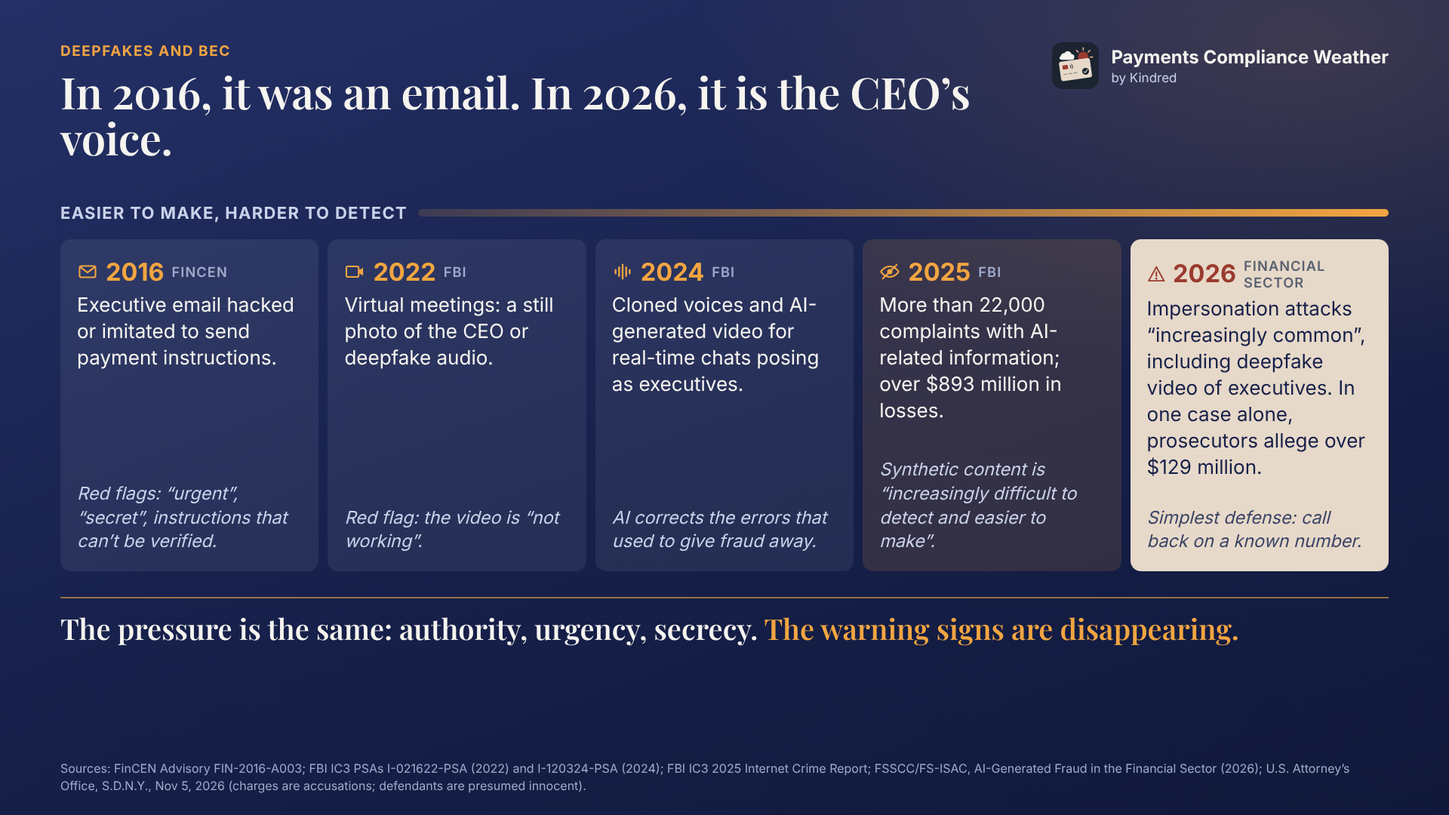
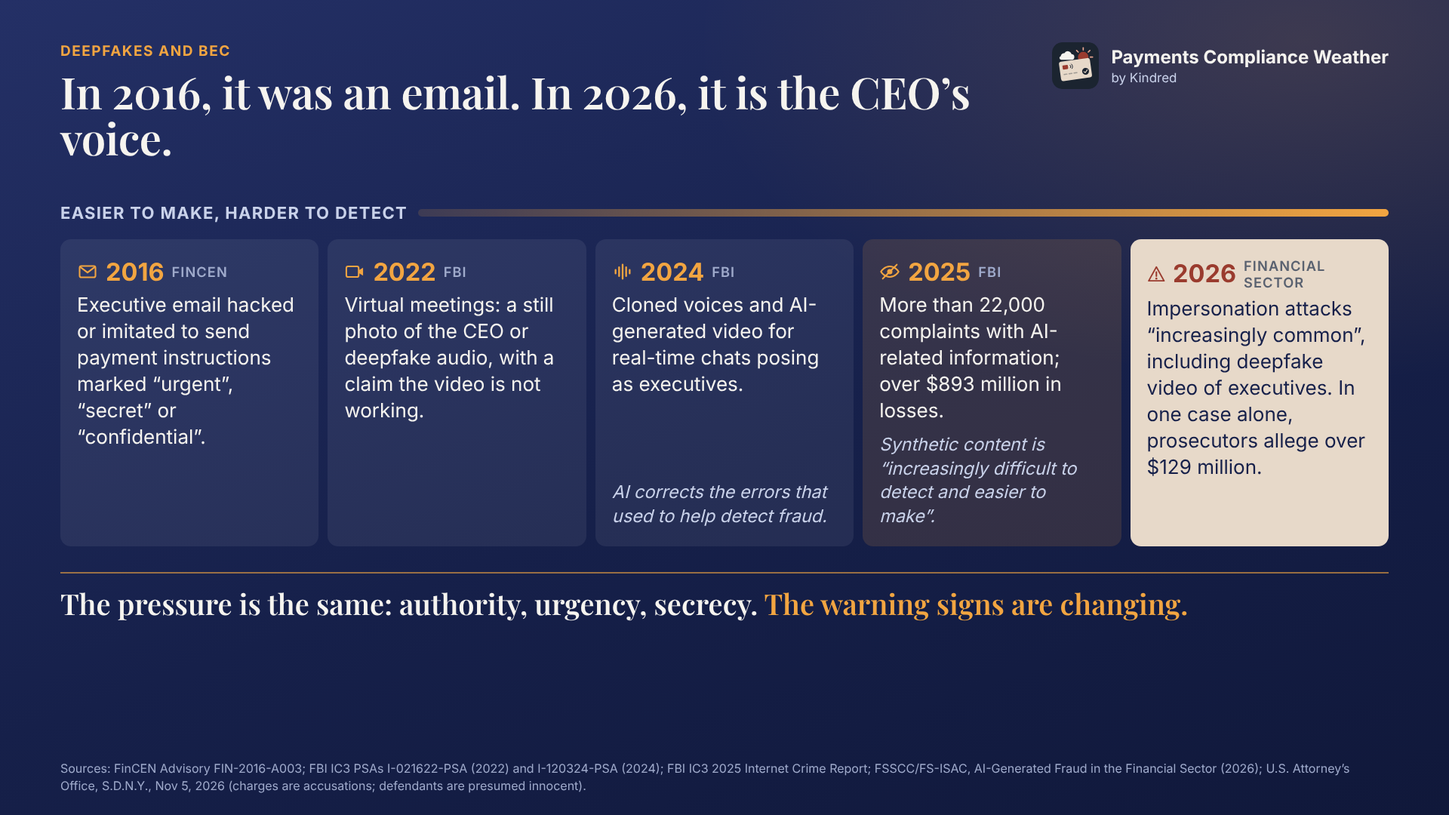
Article: poetic opening with 1738 impersonation history, 2015 FBI, fraud risk management analysis, updated timeline
Claude-Session: https://claude.ai/code/session_01Ku5heUpjigKdLqPfQp8BWG

diff --git a/article-ai-impersonation-wire-fraud.html b/article-ai-impersonation-wire-fraud.html
@@ -16,7 +16,7 @@
 <link rel="preconnect" href="https://fonts.googleapis.com">
 <link rel="preconnect" href="https://fonts.gstatic.com" crossorigin>
 <link rel="stylesheet" href="https://fonts.googleapis.com/css2?family=Playfair+Display:wght@500;600;700&family=Inter:ital,wght@0,400;0,500;0,600;0,700;1,400&display=swap">
-<link rel="stylesheet" href="css/site.css?v=20261107b">
+<link rel="stylesheet" href="css/site.css?v=20261109a">
 <link rel="canonical" href="https://kindredmission.github.io/article-ai-impersonation-wire-fraud.html">
 <meta property="og:type" content="article">
 <meta property="article:published_time" content="2026-10-24">
@@ -49,86 +49,140 @@
 <div class="container">
   <article class="post" itemscope itemtype="https://schema.org/BlogPosting">
     <header class="post-head"><p class="kicker">Payments Compliance Weather</p><h1 itemprop="headline">Deepfake CEO fraud: what the $129 million case means for payments controls</h1>
-      <p class="meta">By <span itemprop="author">the founder of Kindred</span>, <time datetime="2026-11-07" itemprop="datePublished">November 7, 2026</time>. 4 minute read</p></header>
+      <p class="meta">By <span itemprop="author">the founder of Kindred</span>, <time datetime="2026-11-07" itemprop="datePublished">November 7, 2026</time>. 6 minute read</p></header>
     <figure class="post-photo art-cover"><img src="articles/img/pcw-ai-impersonation-cover.jpg" alt="Payments Compliance Weather cover: Deepfake CEO fraud. A phone with a voice waveform, a storm cloud and a bank marked with a cross." width="1920" height="1080" fetchpriority="high" decoding="async"></figure>
     <div class="post-body" itemprop="articleBody">
-      <p class="post-lead">Executive impersonation is not new. What generative AI adds is a convincing voice and face. Federal prosecutors allege a group used that to divert more than $129 million in wires, including from two hospital systems.</p>
-      <h2>The case</h2>
-      <p>On November 5, 2026, the <a href="https://www.justice.gov/usao-sdny/pr/three-foreign-nationals-arrested-and-charged-scheme-use-super-intelligence-defraud" target="_blank" rel="noopener">U.S. Attorney&rsquo;s Office for the Southern District of New York</a> charged Jacob Soall, Sharon Hazan and Guy Sheetrit with wire fraud, aggravated identity theft and money laundering. The charges are accusations; the defendants are presumed innocent unless and until proven guilty. According to the release, from 2024 to 2026:</p>
-      <ul class="art-facts">
-        <li><strong>Executive impersonation:</strong> conspirators posed as CEOs and asked employees for help with a &ldquo;confidential financial transaction&rdquo;.</li>
-        <li><strong>Deepfake voice and video:</strong> they used what the release calls &ldquo;super intelligence&rdquo; (&ldquo;SI&rdquo;) to mimic the CEO&rsquo;s voice and/or image in calls.</li>
-        <li><strong>Fake third-party validation:</strong> they then impersonated lawyers at large international law firms, who directed the wire.</li>
-        <li><strong>Mule accounts:</strong> funds went to accounts controlled by the group in countries including the United States, Spain, Portugal, Greece, the UAE, Singapore, Austria, Slovakia and China.</li>
-        <li><strong>Crypto layering:</strong> proceeds were converted into cryptocurrency to conceal their source and distributed.</li>
-        <li><strong>Isolation tactic:</strong> a handwritten &ldquo;Lawyer Call&rdquo; script discouraged employees from discussing the calls with colleagues.</li>
-      </ul>
-      <h2>You were trained to spot the typo. Now there isn&rsquo;t one.</h2>
-      <p>Executive impersonation has been on regulators&rsquo; radar for a decade. What has changed is how convincing it is.</p>
-      <ul class="art-facts">
-        <li><strong>2016:</strong> FinCEN <a href="https://www.fincen.gov/sites/default/files/advisory/2016-09-09/FIN-2016-A003.pdf" target="_blank" rel="noopener">warned</a> that criminals hack or imitate executives&rsquo; email to send payment instructions, often marked &ldquo;urgent&rdquo;, &ldquo;secret&rdquo; or &ldquo;confidential&rdquo;, and sometimes based on emails from executives or attorneys that cannot be verified.</li>
-        <li><strong>2022:</strong> the FBI <a href="https://www.ic3.gov/PSA/2022/PSA220216" target="_blank" rel="noopener">reported</a> fraudsters moving to virtual meetings, showing a still picture of the CEO or using deepfake audio and claiming the video was not working.</li>
-        <li><strong>2024:</strong> the FBI <a href="https://www.ic3.gov/PSA/2024/PSA241203" target="_blank" rel="noopener">warned</a> that generative AI lets criminals commit fraud on a larger scale and correct the errors that used to serve as warning signs. It noted that &ldquo;criminals generate videos for real time video chats with alleged company executives&rdquo;, clone voices and create fake identity documents.</li>
-        <li><strong>2025:</strong> the FBI&rsquo;s <a href="https://www.ic3.gov/AnnualReport/Reports/2025_IC3Report.pdf" target="_blank" rel="noopener">2025 Internet Crime Report</a> counted more than 22,000 complaints with AI-related information and over $893 million in losses, including more than $30 million in business email compromise losses involving AI. It warned that AI-enabled synthetic content is &ldquo;becoming increasingly difficult to detect and easier to make.&rdquo;</li>
-        <li><strong>2026:</strong> a financial sector paper led by FS-ISAC, the American Bankers Association and the Bank Policy Institute, <a href="https://fsscc.org/wp-content/uploads/2026/03/FSSCC-AI-Generated-Fraud.pdf" target="_blank" rel="noopener">AI-Generated Fraud in the Financial Sector</a>, said impersonation attacks are &ldquo;increasingly common&rdquo;, including deepfakes of executives used to authorize payments. The case above is one example.</li>
-      </ul>
-      <p><strong>The pressure is the same: authority, urgency, secrecy. The warning signs are disappearing.</strong></p>
-      <figure class="post-photo art-cover"><img src="articles/img/pcw-impersonation-timeline-1920x1080.png" alt="Timeline: In 2016, it was an email. In 2026, it is the CEO&rsquo;s voice. 2016 FinCEN, 2022 FBI, 2024 FBI, 2025 FBI, 2026 financial sector. Easier to make, harder to detect." width="1920" height="1080" loading="lazy"></figure>
-      <h2>How it maps to known typologies</h2>
-      <div class="art-table"><table>
-        <thead><tr><th>Element</th><th>Industry term</th><th>Where it hits</th></tr></thead>
-        <tbody>
-          <tr><td>Fake CEO and lawyers</td><td>Executive impersonation, a form of business email compromise (BEC)</td><td>Corporate payment approvals</td></tr>
-          <tr><td>Cloned voice and image</td><td>Deepfake audio and video created with generative AI</td><td>Voice or video as a verification factor</td></tr>
-          <tr><td>Employee sends the wire</td><td>Authorized push payment (APP) fraud</td><td>Authentication passes; the instruction is false</td></tr>
-          <tr><td>Accounts across many countries</td><td>Money mule accounts</td><td>Receiving institutions&rsquo; KYC and monitoring</td></tr>
-          <tr><td>Conversion to crypto</td><td>Layering through virtual assets</td><td>Crypto platforms&rsquo; on-ramp monitoring</td></tr>
-        </tbody></table></div>
-      <p>The weak point is the same in each row: a control that relies on recognizing a person. GenAI makes that recognition unreliable.</p>
-      <h2>Controls by role</h2>
-      <div class="art-roles">
-        <section><h3>Corporate treasury and accounts payable</h3><ul>
-          <li>Out-of-band verification for every high-value or first-time payment, using contact details from your own records, never from the request.</li>
-          <li>Dual control: a second approver who was not on the call or thread.</li>
-          <li>A written rule that executives never request confidential payments by call or video alone.</li>
-          <li>Deepfake awareness training. Treat urgency and secrecy as red flags, not reasons to comply.</li></ul></section>
-        <section><h3>Originating banks and payment service providers</h3><ul>
-          <li>Risk-score wires by beneficiary age, amount and corridor: a first payment to a new beneficiary in a new country deserves friction.</li>
-          <li>Call the client back on file when a wire breaks pattern.</li>
-          <li>Send recall requests to the beneficiary bank immediately. Once funds are credited, recovery depends on the receiving bank.</li></ul></section>
-        <section><h3>Beneficiary banks, fintechs and other account providers</h3><ul>
-          <li>KYC and KYB that can withstand deepfakes: liveness detection and document authentication. FinCEN&rsquo;s <a href="https://fincen.gov/news/news-releases/fincen-issues-alert-fraud-schemes-involving-deepfake-media-targeting-financial" target="_blank" rel="noopener">2024 deepfake alert</a> reports more SARs describing fraudulent identity documents used to get past identity verification.</li>
-          <li>Mule monitoring: new or low-activity accounts receiving large wires from unrelated companies, followed by rapid outbound transfers, especially to crypto platforms.</li>
-          <li>File SARs where required.</li></ul></section>
-        <section><h3>Crypto platforms (VASPs)</h3><ul>
-          <li>Monitor on-ramp deposits from accounts that recently received large third-party wires.</li>
-          <li>Respond quickly to law enforcement and bank tracing requests.</li></ul></section>
-      </div>
-      <h2>Response: the 72-hour window</h2>
-      <div class="art-stat"><span class="art-num">72<small>hours</small></span><p>FinCEN&rsquo;s <a href="https://www.fincen.gov/system/files/2026-04/RRPFactSheet.pdf" target="_blank" rel="noopener">Rapid Response Program fact sheet</a> says it is most likely to interdict or recover funds when fraudulent wires are reported to law enforcement within 72 hours.</p></div>
-      <p>Victims should contact their bank immediately and file with the FBI&rsquo;s <a href="https://www.ic3.gov" target="_blank" rel="noopener">IC3</a> or the nearest U.S. Secret Service field office. Since 2015, the program has helped interdict $1.8 billion and recover over $1 billion.</p>
-      <p>Pre-assign who calls the bank and who files, and keep the data ready: beneficiary name, account and bank, receiving branch country, wire date, amount, currency and a short summary.</p>
-      <h2>Questions for your team</h2>
-      <ol class="art-q">
-        <li>Can one person release a high-value wire on the strength of a call or video?</li>
-        <li>Does your callback use contact details from your own records?</li>
-        <li>Would your KYC catch an AI-generated ID or a deepfake selfie?</li>
-        <li>Who makes the first call inside the 72-hour window?</li>
-      </ol>
-      <p>How is your organization adapting its controls to deepfakes? I&rsquo;d like to hear where you see the gaps. <a href="https://www.linkedin.com/build-relation/newsletter-follow?entityUrn=7524211241779630080" target="_blank" rel="noopener">Join the discussion on LinkedIn</a>.</p>
-      <h2>Sources</h2>
-      <ul class="art-src">
-        <li><a href="https://www.justice.gov/usao-sdny/pr/three-foreign-nationals-arrested-and-charged-scheme-use-super-intelligence-defraud" target="_blank" rel="noopener">U.S. Attorney&rsquo;s Office, Southern District of New York: Three Foreign Nationals Arrested And Charged With Scheme To Use Super Intelligence To Defraud Companies Of $129 Million</a>, November 5, 2026</li>
-        <li><a href="https://www.fincen.gov/sites/default/files/advisory/2016-09-09/FIN-2016-A003.pdf" target="_blank" rel="noopener">FinCEN Advisory FIN-2016-A003: Advisory to Financial Institutions on E-Mail Fraud Against Businesses</a>, September 6, 2016</li>
-        <li><a href="https://www.ic3.gov/PSA/2022/PSA220216" target="_blank" rel="noopener">FBI IC3 PSA I-021622-PSA: Business Email Compromise: Virtual Meeting Platforms</a>, February 16, 2022</li>
-        <li><a href="https://www.ic3.gov/PSA/2024/PSA241203" target="_blank" rel="noopener">FBI IC3 PSA I-120324-PSA: Criminals Use Generative Artificial Intelligence to Facilitate Financial Fraud</a>, December 3, 2024</li>
-        <li><a href="https://www.ic3.gov/AnnualReport/Reports/2025_IC3Report.pdf" target="_blank" rel="noopener">FBI IC3: 2025 Internet Crime Report</a></li>
-        <li><a href="https://fsscc.org/wp-content/uploads/2026/03/FSSCC-AI-Generated-Fraud.pdf" target="_blank" rel="noopener">FSSCC / FS-ISAC, ABA, BPI: AI-Generated Fraud in the Financial Sector: Threat Categories and Defense Strategies</a>, 2026</li>
-        <li><a href="https://fincen.gov/news/news-releases/fincen-issues-alert-fraud-schemes-involving-deepfake-media-targeting-financial" target="_blank" rel="noopener">FinCEN Issues Alert on Fraud Schemes Involving Deepfake Media Targeting Financial Institutions</a>, November 13, 2024</li>
-        <li><a href="https://www.fincen.gov/system/files/2026-04/RRPFactSheet.pdf" target="_blank" rel="noopener">FinCEN: Rapid Response Program fact sheet</a>, April 15, 2026</li>
-        <li><a href="https://www.ic3.gov" target="_blank" rel="noopener">FBI Internet Crime Complaint Center (IC3)</a></li>
-      </ul>
-      <p class="note">General information based on public sources, not legal advice. The charges are accusations, and the defendants are presumed innocent unless and until proven guilty.</p>
+<p class="art-poem">As intelligence evolves, so do the ways fraud is perpetrated.</p>
+<p>Impersonation is one of the oldest frauds there is. In 1738, a New York court convicted Tom Bell of <a href="https://research.colonialwilliamsburg.org/Foundation/journal/Spring05/frauds.cfm" target="_blank" rel="noopener">forging a letter</a> to defraud a family of £50. In 1741, in New Jersey, he posed as a minister, the Reverend John Rowland, and rode off with his host’s horse, money and papers.</p>
+<p>For centuries, the tools barely changed: a forged letter, a borrowed name, later a spoofed email. Generative AI has changed them. Today, the impersonator can sound like the CEO, and look like the CEO.</p>
+<h2 id="the-case">The case</h2>
+<p>On November 5, 2026, the <a href="https://www.justice.gov/usao-sdny/pr/three-foreign-nationals-arrested-and-charged-scheme-use-super-intelligence-defraud" target="_blank" rel="noopener">U.S. Attorney’s Office for the Southern District of New York</a> charged Jacob Soall, Sharon Hazan and Guy Sheetrit with wire fraud, aggravated identity theft and money laundering. The charges are accusations; the defendants are presumed innocent unless and until proven guilty. According to the release, from 2024 to 2026:</p>
+<ul>
+<li><strong>Executive impersonation:</strong> conspirators posed as CEOs and asked employees for help with a “confidential financial transaction”.</li>
+<li><strong>Deepfake voice and video:</strong> they used what the release calls “super intelligence” (“SI”) to mimic the CEO’s voice and/or image in calls.</li>
+<li><strong>Fake third-party validation:</strong> they then impersonated lawyers at large international law firms, who directed the wire.</li>
+<li><strong>Mule accounts:</strong> funds went to accounts controlled by the group in countries including the United States, Spain, Portugal, Greece, the UAE, Singapore, Austria, Slovakia and China.</li>
+<li><strong>Crypto layering:</strong> proceeds were converted into cryptocurrency to conceal their source and distributed.</li>
+<li><strong>Isolation tactic:</strong> a handwritten “Lawyer Call” script discouraged employees from discussing the calls with colleagues.</li>
+</ul>
+<h2 id="you-were-trained-to-spot-the-typo.-now-there-isnt-one.">You were trained to spot the typo. Now there isn’t one.</h2>
+<p>Executive impersonation has been on regulators’ radar for more than a decade. What has changed is how convincing it is.</p>
+<ul>
+<li><strong>2015:</strong> the FBI <a href="https://ic3.gov/PSA/2015/PSA150827_1.pdf" target="_blank" rel="noopener">described</a> fraudsters posing as lawyers handling confidential, time-sensitive matters and pressuring victims to send funds quickly or secretly. Between October 2013 and August 2015, it counted 8,179 victims of business email compromise and nearly $800 million in exposed losses.</li>
+<li><strong>2016:</strong> FinCEN <a href="https://www.fincen.gov/sites/default/files/advisory/2016-09-09/FIN-2016-A003.pdf" target="_blank" rel="noopener">warned</a> that criminals hack or imitate executives’ email to send payment instructions, often marked “urgent”, “secret” or “confidential”, and sometimes based on emails from executives or attorneys that cannot be verified.</li>
+<li><strong>2022:</strong> the FBI <a href="https://www.ic3.gov/PSA/2022/PSA220216" target="_blank" rel="noopener">reported</a> fraudsters moving to virtual meetings, showing a still picture of the CEO or using deepfake audio and claiming the video was not working.</li>
+<li><strong>2024:</strong> the FBI <a href="https://www.ic3.gov/PSA/2024/PSA241203" target="_blank" rel="noopener">warned</a> that generative AI lets criminals commit fraud on a larger scale and correct the errors that used to serve as warning signs. It noted that “criminals generate videos for real time video chats with alleged company executives”, clone voices and create fake identity documents.</li>
+<li><strong>2025:</strong> the FBI’s <a href="https://www.ic3.gov/AnnualReport/Reports/2025_IC3Report.pdf" target="_blank" rel="noopener">2025 Internet Crime Report</a> counted more than 22,000 complaints with AI-related information and over $893 million in losses, including more than $30 million in business email compromise losses involving AI. It warned that AI-enabled synthetic content is “becoming increasingly difficult to detect and easier to make.”</li>
+<li><strong>2026:</strong> a financial sector paper led by FS-ISAC, the American Bankers Association and the Bank Policy Institute, <a href="https://fsscc.org/wp-content/uploads/2026/03/FSSCC-AI-Generated-Fraud.pdf" target="_blank" rel="noopener">AI-Generated Fraud in the Financial Sector</a>, said impersonation attacks are “increasingly common”, including deepfakes of executives used to authorize payments. The case above is one example.</li>
+</ul>
+<p><strong>The pressure is the same: authority, urgency, secrecy. The warning signs are changing.</strong></p>
+<figure class="post-photo art-cover"><img src="articles/img/pcw-impersonation-timeline-1920x1080.png" alt="Timeline: In 2016, it was an email. In 2026, it is the CEO&rsquo;s voice. 2016 FinCEN, 2022 FBI, 2024 FBI, 2025 FBI, 2026 financial sector. Easier to make, harder to detect." width="1920" height="1080" loading="lazy"></figure>
+<h2 id="how-it-maps-to-known-typologies">How it maps to known typologies</h2>
+<div class="art-table"><table>
+<colgroup>
+<col style="width: 33%" />
+<col style="width: 33%" />
+<col style="width: 33%" />
+</colgroup>
+<thead>
+<tr class="header">
+<th>Element</th>
+<th>Industry term</th>
+<th>Where it hits</th>
+</tr>
+</thead>
+<tbody>
+<tr class="odd">
+<td>Fake CEO and lawyers</td>
+<td>Executive impersonation, a form of business email compromise (BEC)</td>
+<td>Corporate payment approvals</td>
+</tr>
+<tr class="even">
+<td>Cloned voice and image</td>
+<td>Deepfake audio and video created with generative AI</td>
+<td>Voice or video as a verification factor</td>
+</tr>
+<tr class="odd">
+<td>Employee sends the wire</td>
+<td>Authorized push payment (APP) fraud</td>
+<td>Authentication passes; the instruction is false</td>
+</tr>
+<tr class="even">
+<td>Accounts across many countries</td>
+<td>Money mule accounts</td>
+<td>Receiving institutions’ KYC and monitoring</td>
+</tr>
+<tr class="odd">
+<td>Conversion to crypto</td>
+<td>Layering through virtual assets</td>
+<td>Crypto platforms’ on-ramp monitoring</td>
+</tr>
+</tbody>
+</table></div>
+<h2 id="what-this-means-for-fraud-risk-management">What this means for fraud risk management</h2>
+<p>When a voice, a face and an identity document can all be generated, fraud risk management can no longer rest on recognizing people. It has to rest on process. Kindred’s analysis:</p>
+<ol type="1">
+<li><strong>Stop treating voice and video as proof of identity.</strong> Any instruction to move money, on any channel, needs confirmation through a separate channel using contact details already on file. The financial sector paper describes calling back on a known number as the simplest defense against voice or video deepfakes.</li>
+<li><strong>Update the fraud risk assessment.</strong> Name deepfake impersonation, AI-generated identity documents and AI-written messages as scenarios, and test whether each control still works if the person on the other end is synthetic. FinCEN lists fraud and cybercrime among its anti-money laundering national priorities.</li>
+<li><strong>Anchor controls to the payment, not the person.</strong> Dual control, value thresholds and extra checks for first-time beneficiaries and changes to payment details should apply no matter who is asking.</li>
+<li><strong>Retrain for the new warning signs.</strong> Spelling mistakes and unfamiliar voices are fading. What remains: secrecy, urgency, pressure to bypass process, excuses to avoid a callback, and requests to move the conversation to a different messaging platform, a pretext the FBI <a href="https://www.ic3.gov/PSA/2025/PSA250515" target="_blank" rel="noopener">flagged</a> in 2025.</li>
+<li><strong>Bring fraud, cyber and AML teams together.</strong> The financial sector paper recommends coordinating fraud and cyber teams, considering deepfake detection tools in customer channels, and escalating high-risk transactions to a human specialist.</li>
+<li><strong>Watch both ends of the payment.</strong> The sending institution sees the instruction; the receiving institution sees the mule account. Both need monitoring tuned for AI-enabled fraud.</li>
+<li><strong>Plan for hours, not days.</strong> Incident playbooks should name who calls the bank and who reports, because the first 72 hours matter most.</li>
+</ol>
+<h2 id="controls-by-role">Controls by role</h2>
+<p><strong>Corporate treasury and accounts payable</strong></p>
+<ul>
+<li>Out-of-band verification for every high-value or first-time payment, using contact details from your own records, never from the request.</li>
+<li>Dual control: a second approver who was not on the call or thread.</li>
+<li>A written rule that executives never request confidential payments by call or video alone.</li>
+<li>Deepfake awareness training. Treat urgency and secrecy as red flags, not reasons to comply.</li>
+</ul>
+<p><strong>Originating banks and payment service providers</strong></p>
+<ul>
+<li>Risk-score wires by beneficiary age, amount and corridor: a first payment to a new beneficiary in a new country deserves friction.</li>
+<li>Call the client back on file when a wire breaks pattern.</li>
+<li>Send recall requests to the beneficiary bank immediately. Once funds are credited, recovery depends on the receiving bank.</li>
+</ul>
+<p><strong>Beneficiary banks, fintechs and other account providers</strong></p>
+<ul>
+<li>KYC and KYB that can withstand deepfakes: liveness detection and document authentication. FinCEN’s <a href="https://fincen.gov/news/news-releases/fincen-issues-alert-fraud-schemes-involving-deepfake-media-targeting-financial" target="_blank" rel="noopener">2024 deepfake alert</a> reports more SARs describing fraudulent identity documents used to get past identity verification.</li>
+<li>Mule monitoring: new or low-activity accounts receiving large wires from unrelated companies, followed by rapid outbound transfers, especially to crypto platforms.</li>
+<li>File SARs where required.</li>
+</ul>
+<p><strong>Crypto platforms (VASPs)</strong></p>
+<ul>
+<li>Monitor on-ramp deposits from accounts that recently received large third-party wires.</li>
+<li>Respond quickly to law enforcement and bank tracing requests.</li>
+</ul>
+<h2 id="response-the-72-hour-window">Response: the 72-hour window</h2>
+<p>FinCEN’s <a href="https://www.fincen.gov/system/files/2026-04/RRPFactSheet.pdf" target="_blank" rel="noopener">Rapid Response Program fact sheet</a> says it is most likely to interdict or recover funds when fraudulent wires are reported to law enforcement within 72 hours. Victims should contact their bank immediately and file with the FBI’s <a href="https://www.ic3.gov" target="_blank" rel="noopener">IC3</a> or the nearest U.S. Secret Service field office. Since 2015, the program has helped interdict $1.8 billion and recover over $1 billion.</p>
+<p>Pre-assign who calls the bank and who files, and keep the data ready: beneficiary name, account and bank, receiving branch country, wire date, amount, currency and a short summary.</p>
+<h2 id="questions-for-your-team">Questions for your team</h2>
+<ol type="1">
+<li>Can one person release a high-value wire on the strength of a call or video?</li>
+<li>Does your callback use contact details from your own records?</li>
+<li>Would your KYC catch an AI-generated ID or a deepfake selfie?</li>
+<li>Who makes the first call inside the 72-hour window?</li>
+</ol>
+<p>How is your organization adapting its controls to deepfakes? I’d like to hear where you see the gaps.</p>
+<h2 id="sources">Sources</h2>
+<ul>
+<li><a href="https://www.justice.gov/usao-sdny/pr/three-foreign-nationals-arrested-and-charged-scheme-use-super-intelligence-defraud" target="_blank" rel="noopener">U.S. Attorney’s Office, Southern District of New York: Three Foreign Nationals Arrested And Charged With Scheme To Use Super Intelligence To Defraud Companies Of $129 Million</a>, November 5, 2026</li>
+<li><a href="https://research.colonialwilliamsburg.org/Foundation/journal/Spring05/frauds.cfm" target="_blank" rel="noopener">Jack Lynch, “Of Sharpers, Mumpers, and Fourberies: Some Early American Impostors and Rogues”, Colonial Williamsburg Journal</a>, Spring 2005</li>
+<li><a href="https://ic3.gov/PSA/2015/PSA150827_1.pdf" target="_blank" rel="noopener">FBI IC3 PSA I-082715a-PSA: Business Email Compromise</a>, August 27, 2015</li>
+<li><a href="https://www.fincen.gov/sites/default/files/advisory/2016-09-09/FIN-2016-A003.pdf" target="_blank" rel="noopener">FinCEN Advisory FIN-2016-A003: Advisory to Financial Institutions on E-Mail Fraud Against Businesses</a>, September 6, 2016</li>
+<li><a href="https://www.ic3.gov/PSA/2022/PSA220216" target="_blank" rel="noopener">FBI IC3 PSA I-021622-PSA: Business Email Compromise: Virtual Meeting Platforms</a>, February 16, 2022</li>
+<li><a href="https://fincen.gov/news/news-releases/fincen-issues-alert-fraud-schemes-involving-deepfake-media-targeting-financial" target="_blank" rel="noopener">FinCEN Issues Alert on Fraud Schemes Involving Deepfake Media Targeting Financial Institutions</a>, November 13, 2024</li>
+<li><a href="https://www.ic3.gov/PSA/2024/PSA241203" target="_blank" rel="noopener">FBI IC3 PSA I-120324-PSA: Criminals Use Generative Artificial Intelligence to Facilitate Financial Fraud</a>, December 3, 2024</li>
+<li><a href="https://www.ic3.gov/PSA/2025/PSA250515" target="_blank" rel="noopener">FBI IC3 PSA I-051525-PSA: Senior US Officials Impersonated in Malicious Messaging Campaign</a>, May 15, 2025</li>
+<li><a href="https://www.ic3.gov/AnnualReport/Reports/2025_IC3Report.pdf" target="_blank" rel="noopener">FBI IC3: 2025 Internet Crime Report</a></li>
+<li><a href="https://fsscc.org/wp-content/uploads/2026/03/FSSCC-AI-Generated-Fraud.pdf" target="_blank" rel="noopener">FSSCC / FS-ISAC, ABA, BPI: AI-Generated Fraud in the Financial Sector: Threat Categories and Defense Strategies</a>, 2026</li>
+<li><a href="https://www.fincen.gov/system/files/2026-04/RRPFactSheet.pdf" target="_blank" rel="noopener">FinCEN: Rapid Response Program fact sheet</a>, April 15, 2026</li>
+<li><a href="https://www.ic3.gov" target="_blank" rel="noopener">FBI Internet Crime Complaint Center (IC3)</a></li>
+</ul>
+<p class="note">General information based on public sources, not legal advice. The charges are accusations, and the defendants are presumed innocent unless and until proven guilty.</p>
+
     </div>
   </article>
 </div>

diff --git a/why-i-started-kindred.html b/why-i-started-kindred.html
@@ -16,7 +16,7 @@
 <link rel="preconnect" href="https://fonts.googleapis.com">
 <link rel="preconnect" href="https://fonts.gstatic.com" crossorigin>
 <link rel="stylesheet" href="https://fonts.googleapis.com/css2?family=Playfair+Display:wght@500;600;700&family=Inter:ital,wght@0,400;0,500;0,600;0,700;1,400&display=swap">
-<link rel="stylesheet" href="css/site.css?v=20261107b">
+<link rel="stylesheet" href="css/site.css?v=20261109a">
 <link rel="canonical" href="https://kindredmission.github.io/why-i-started-kindred.html">
 <meta property="og:type" content="article">
 <meta property="article:published_time" content="2026-10-24">

diff --git a/survey.html b/survey.html
@@ -16,7 +16,7 @@
 <link rel="preconnect" href="https://fonts.googleapis.com">
 <link rel="preconnect" href="https://fonts.gstatic.com" crossorigin>
 <link rel="stylesheet" href="https://fonts.googleapis.com/css2?family=Playfair+Display:wght@500;600;700&family=Inter:ital,wght@0,400;0,500;0,600;0,700;1,400&display=swap">
-<link rel="stylesheet" href="css/site.css?v=20261107b">
+<link rel="stylesheet" href="css/site.css?v=20261109a">
 <style>
 .sv{max-width:760px;margin:0 auto;padding:8px 0 56px}
 .sv-progress{display:flex;align-items:center;gap:12px;margin:4px 0 22px;font-size:.95rem;color:var(--muted)}

diff --git a/survivor-survey.html b/survivor-survey.html
@@ -16,7 +16,7 @@
 <link rel="preconnect" href="https://fonts.googleapis.com">
 <link rel="preconnect" href="https://fonts.gstatic.com" crossorigin>
 <link rel="stylesheet" href="https://fonts.googleapis.com/css2?family=Playfair+Display:wght@500;600;700&family=Inter:ital,wght@0,400;0,500;0,600;0,700;1,400&display=swap">
-<link rel="stylesheet" href="css/site.css?v=20261107b">
+<link rel="stylesheet" href="css/site.css?v=20261109a">
 <style>
 .sv{max-width:760px;margin:0 auto;padding:8px 0 56px}
 .sv-progress{display:flex;align-items:center;gap:12px;margin:4px 0 22px;font-size:.95rem;color:var(--muted)}

diff --git a/about.html b/about.html
@@ -16,7 +16,7 @@
 <link rel="preconnect" href="https://fonts.googleapis.com">
 <link rel="preconnect" href="https://fonts.gstatic.com" crossorigin>
 <link rel="stylesheet" href="https://fonts.googleapis.com/css2?family=Playfair+Display:wght@500;600;700&family=Inter:ital,wght@0,400;0,500;0,600;0,700;1,400&display=swap">
-<link rel="stylesheet" href="css/site.css?v=20261107b">
+<link rel="stylesheet" href="css/site.css?v=20261109a">
 </head>
 <body>
 <a class="skip" href="#main">Skip to main content</a>

diff --git a/articles.html b/articles.html
@@ -16,7 +16,7 @@
 <link rel="preconnect" href="https://fonts.googleapis.com">
 <link rel="preconnect" href="https://fonts.gstatic.com" crossorigin>
 <link rel="stylesheet" href="https://fonts.googleapis.com/css2?family=Playfair+Display:wght@500;600;700&family=Inter:ital,wght@0,400;0,500;0,600;0,700;1,400&display=swap">
-<link rel="stylesheet" href="css/site.css?v=20261107b">
+<link rel="stylesheet" href="css/site.css?v=20261109a">
 </head>
 <body>
 <a class="skip" href="#main">Skip to main content</a>

diff --git a/connect.html b/connect.html
@@ -16,7 +16,7 @@
 <link rel="preconnect" href="https://fonts.googleapis.com">
 <link rel="preconnect" href="https://fonts.gstatic.com" crossorigin>
 <link rel="stylesheet" href="https://fonts.googleapis.com/css2?family=Playfair+Display:wght@500;600;700&family=Inter:ital,wght@0,400;0,500;0,600;0,700;1,400&display=swap">
-<link rel="stylesheet" href="css/site.css?v=20261107b">
+<link rel="stylesheet" href="css/site.css?v=20261109a">
 </head>
 <body>
 <a class="skip" href="#main">Skip to main content</a>

diff --git a/events.html b/events.html
@@ -16,7 +16,7 @@
 <link rel="preconnect" href="https://fonts.googleapis.com">
 <link rel="preconnect" href="https://fonts.gstatic.com" crossorigin>
 <link rel="stylesheet" href="https://fonts.googleapis.com/css2?family=Playfair+Display:wght@500;600;700&family=Inter:ital,wght@0,400;0,500;0,600;0,700;1,400&display=swap">
-<link rel="stylesheet" href="css/site.css?v=20261107b">
+<link rel="stylesheet" href="css/site.css?v=20261109a">
 </head>
 <body>
 <a class="skip" href="#main">Skip to main content</a>

diff --git a/get-involved.html b/get-involved.html
@@ -16,7 +16,7 @@
 <link rel="preconnect" href="https://fonts.googleapis.com">
 <link rel="preconnect" href="https://fonts.gstatic.com" crossorigin>
 <link rel="stylesheet" href="https://fonts.googleapis.com/css2?family=Playfair+Display:wght@500;600;700&family=Inter:ital,wght@0,400;0,500;0,600;0,700;1,400&display=swap">
-<link rel="stylesheet" href="css/site.css?v=20261107b">
+<link rel="stylesheet" href="css/site.css?v=20261109a">
 </head>
 <body>
 <a class="skip" href="#main">Skip to main content</a>

diff --git a/guides.html b/guides.html
@@ -16,7 +16,7 @@
 <link rel="preconnect" href="https://fonts.googleapis.com">
 <link rel="preconnect" href="https://fonts.gstatic.com" crossorigin>
 <link rel="stylesheet" href="https://fonts.googleapis.com/css2?family=Playfair+Display:wght@500;600;700&family=Inter:ital,wght@0,400;0,500;0,600;0,700;1,400&display=swap">
-<link rel="stylesheet" href="css/site.css?v=20261107b">
+<link rel="stylesheet" href="css/site.css?v=20261109a">
 </head>
 <body>
 <a class="skip" href="#main">Skip to main content</a>

diff --git a/human-crimes.html b/human-crimes.html
@@ -16,7 +16,7 @@
 <link rel="preconnect" href="https://fonts.googleapis.com">
 <link rel="preconnect" href="https://fonts.gstatic.com" crossorigin>
 <link rel="stylesheet" href="https://fonts.googleapis.com/css2?family=Playfair+Display:wght@500;600;700&family=Inter:ital,wght@0,400;0,500;0,600;0,700;1,400&display=swap">
-<link rel="stylesheet" href="css/site.css?v=20261107b">
+<link rel="stylesheet" href="css/site.css?v=20261109a">
 </head>
 <body>
 <a class="skip" href="#main">Skip to main content</a>

diff --git a/ideas.html b/ideas.html
@@ -16,7 +16,7 @@
 <link rel="preconnect" href="https://fonts.googleapis.com">
 <link rel="preconnect" href="https://fonts.gstatic.com" crossorigin>
 <link rel="stylesheet" href="https://fonts.googleapis.com/css2?family=Playfair+Display:wght@500;600;700&family=Inter:ital,wght@0,400;0,500;0,600;0,700;1,400&display=swap">
-<link rel="stylesheet" href="css/site.css?v=20261107b">
+<link rel="stylesheet" href="css/site.css?v=20261109a">
 </head>
 <body>
 <a class="skip" href="#main">Skip to main content</a>
